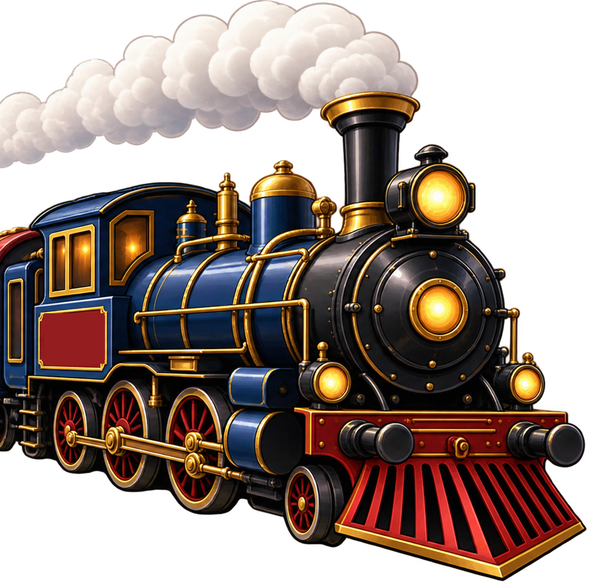
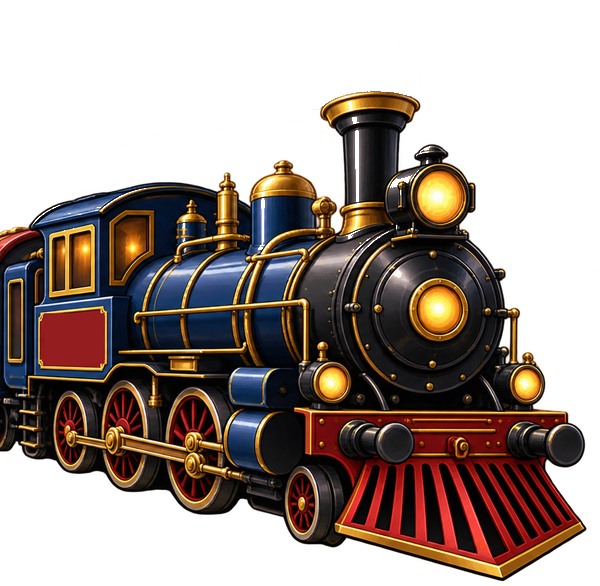
mobile: the steam leaves the stack, and it is grey because white was invisible
Four things the owner asked for after seeing the first pass, and one of them
explains the other three.

THE BAKED SMOKE IS OFF THE LOCOMOTIVE. assets/journey/train-loco.png carried a
painted plume up and to the left of the stack, so an animated plume on top of
it was two plumes. Removed by COLOUR inside the upper-left quadrant rather than
by a box: any bright, desaturated pixel there is smoke, while the boiler, the
lamp, the cowcatcher and the gold trim are all either saturated or very dark,
so none of them can be caught. 39,642 pixels cleared and the engine is
untouched.

WHITE STEAM ON CREAM PAPER IS INVISIBLE, and that, not the opacity, is why the
first two attempts looked thin. The plume crosses the pass's cream stock and
then the frame's white header; white on those has almost no contrast. The
colour now is rgb(219,208,204), which is the MEAN of the smoke the artwork
itself had painted on this very locomotive, sampled off the asset before it was
erased, with the shadow taken from its own shading. The original illustrator
drew grey because that is what steam looks like against a light ground.

ONE ORIGIN, AT THE TIP. Every puff now starts centred on the same point and
only drift moves it sideways as it climbs, so the plume opens out of the
chimney instead of reading as six columns. The canvas foot was 22 points BELOW
the stack, which is the "coming from under the train" the owner saw; the stack
[…]

diff --git a/artifacts/bolo-mobile/components/journey/TrainSteam.tsx b/artifacts/bolo-mobile/components/journey/TrainSteam.tsx
@@ -37,12 +37,43 @@ import { useLoopProgress } from '@/lib/useLoopProgress';
  * trick: a single animated cloud is what makes steam read as fake.
  */
 const PUFFS = [
-  { cycle: 5200, drift: 12, phase: 0.0, size: 26, left: 0 },
-  { cycle: 5900, drift: -19, phase: 0.17, size: 30, left: -6 },
-  { cycle: 5500, drift: 24, phase: 0.35, size: 24, left: 5 },
-  { cycle: 6300, drift: -13, phase: 0.52, size: 32, left: -3 },
-  { cycle: 5700, drift: 18, phase: 0.68, size: 28, left: 7 },
-  { cycle: 6100, drift: -22, phase: 0.84, size: 34, left: -8 },
+  { cycle: 5200, drift: 10, phase: 0.0, size: 22 },
+  { cycle: 5900, drift: -16, phase: 0.17, size: 26 },
+  { cycle: 5500, drift: 20, phase: 0.35, size: 20 },
+  { cycle: 6300, drift: -11, phase: 0.52, size: 28 },
+  { cycle: 5700, drift: 15, phase: 0.68, size: 24 },
+  { cycle: 6100, drift: -19, phase: 0.84, size: 30 },
+] as const;
+
+/**
+ * ONE ORIGIN, WHICH IS THE POINT (owner, 2026-09-05: "single point from smoke
+ * stack"). Every puff starts centred on the same spot and only DRIFT moves it
+ * sideways as it climbs, so the plume opens out of the chimney instead of
+ * appearing as six separate columns. The first pass gave each puff its own
+ * starting offset and it read as a row of clouds.
+ */
+const ORIGIN_LEFT = '50%';
+
+/**
+ * The discs inside one puff, as fractions of its size. SEVEN, NOT THREE, and
+ * heavily overlapped: three hard circles read as bubbles, which is exactly
+ * what the owner saw. Overlapping seven at low individual opacity with a wide
+ * white shadow on each lets the edges dissolve into one another, which is the
+ * only way to get a soft irregular mass out of Views.
+ *
+ * IT CANNOT BE AN SVG. A react-native-svg overlay eats every touch beneath it
+ * even with pointerEvents none, and this layer sits directly over the pass's
+ * own Pressable; an Svg here would swallow taps meant for the boarding pass.
+ * That is a standing rule in CLAUDE.md, paid for by the stop cards.
+ */
+const DISCS = [
+  { dx: 0.0, dy: 0.0, r: 1.0 },
+  { dx: -0.34, dy: 0.16, r: 0.74 },
+  { dx: 0.36, dy: 0.2, r: 0.68 },
+  { dx: -0.16, dy: -0.28, r: 0.62 },
+  { dx: 0.22, dy: -0.24, r: 0.58 },
+  { dx: -0.44, dy: -0.06, r: 0.46 },
+  { dx: 0.48, dy: -0.02, r: 0.44 },
 ] as const;
 
 export function TrainSteam({
@@ -71,7 +102,6 @@ function Puff({
   drift,
   phase,
   size,
-  left,
   rise,
   enabled,
 }: {
@@ -79,7 +109,6 @@ function Puff({
   drift: number;
   phase: number;
   size: number;
-  left: number;
   rise: number;
   enabled: boolean;
 }) {
@@ -94,57 +123,68 @@ function Puff({
     // back sends the steam into the composition instead.
     const lean = -18 * p;
     return {
+      // THICK AT THE STACK, GONE AT THE BAND (owner, 2026-09-05: "thicker to
+      // start", "hit the blue stats bar"). It leaves the chimney at nearly
+      // full strength over a very short ramp, holds, and only lets go in the
+      // last fifth, which is where the stats card is already covering it.
       opacity:
-        p < 0.1 ? (p / 0.1) * 0.6 : p > 0.62 ? Math.max(0, (1 - (p - 0.62) / 0.38) * 0.6) : 0.6,
+        p < 0.04
+          ? (p / 0.04) * 0.95
+          : p > 0.8
+            ? Math.max(0, (1 - (p - 0.8) / 0.2) * 0.95)
+            : 0.95 - (p - 0.04) * 0.22,
       transform: [
         { translateY: -rise * p },
         { translateX: lean + Math.sin(p * Math.PI * 2) * drift },
-        { scale: 0.35 + p * 1.35 },
+        // Small and dense at the stack, wide and thin by the band.
+        { scale: 0.28 + p * 1.75 },
       ],
     };
   });
   return (
-    <Animated.View style={[styles.puff, { left, width: size, height: size }, anim]}>
-      {/* THREE DISCS, NOT ONE. A single circle reads as a bubble; three
-          overlapping at slight offsets give the lumpy edge steam actually has,
-          and they cost nothing next to a blur or an image. */}
-      <View style={[styles.disc, { width: size, height: size, borderRadius: size / 2 }]} />
-      <View
-        style={[
-          styles.disc,
-          {
-            width: size * 0.72,
-            height: size * 0.72,
-            borderRadius: size * 0.36,
-            left: -size * 0.28,
-            top: size * 0.2,
-          },
-        ]}
-      />
-      <View
-        style={[
-          styles.disc,
-          {
-            width: size * 0.64,
-            height: size * 0.64,
-            borderRadius: size * 0.32,
-            left: size * 0.55,
-            top: size * 0.26,
-          },
-        ]}
-      />
+    <Animated.View
+      style={[styles.puff, { marginLeft: -size / 2, width: size, height: size }, anim]}
+    >
+      {DISCS.map((d, k) => (
+        <View
+          key={k}
+          style={[
+            styles.disc,
+            {
+              width: size * d.r,
+              height: size * d.r,
+              borderRadius: (size * d.r) / 2,
+              left: size * (0.5 + d.dx) - (size * d.r) / 2,
+              top: size * (0.5 + d.dy) - (size * d.r) / 2,
+            },
+          ]}
+        />
+      ))}
     </Animated.View>
   );
 }
 
 const styles = StyleSheet.create({
-  puff: { position: 'absolute', bottom: 0 },
+  puff: { position: 'absolute', bottom: 0, left: ORIGIN_LEFT },
+  /**
+   * WARM GREY, NOT WHITE, and this is why the first two attempts looked thin.
+   * The plume crosses cream ticket stock and then the frame's white header, so
+   * white steam on it has almost no contrast: it was not too transparent, it
+   * was the wrong colour. rgb(219,208,204) is the MEAN of the smoke the
+   * artwork itself had painted on this locomotive, sampled off the asset
+   * before that smoke was erased, with the shadow taken from its own shading.
+   * Real steam against a light ground reads grey, which is what the original
+   * illustrator drew.
+   *
+   * Low per-disc alpha with a wide soft shadow: seven of these overlapping
+   * read as one mass, where three opaque ones read as bubbles.
+   */
   disc: {
     position: 'absolute',
-    backgroundColor: 'rgba(255, 255, 255, 0.82)',
-    shadowColor: '#FFFFFF',
-    shadowOpacity: 0.55,
-    shadowRadius: 12,
-    shadowOffset: { width: 0, height: 0 },
+    backgroundColor: 'rgba(219, 208, 204, 0.62)',
+    shadowColor: '#8F8481',
+    shadowOpacity: 0.38,
+    shadowRadius: 9,
+    shadowOffset: { width: 0, height: 1 },
   },
 });

diff --git a/artifacts/bolo-mobile/app/(app)/(tabs)/index.tsx b/artifacts/bolo-mobile/app/(app)/(tabs)/index.tsx
@@ -72,7 +72,7 @@ import { TrainSteam } from '@/components/journey/TrainSteam';
 /** How far the plume climbs, in points: from the locomotive's chimney on the
  *  pass up to roughly the middle of the blue stats band, where the stats card
  *  takes over in z-order and the last wisps disappear behind the numbers. */
-const STEAM_RISE = 300;
+const STEAM_RISE = 380;
 import { DailyGiftCard } from '@/components/DailyGiftCard';
 import { ChaiWalletSheet } from '@/components/ChaiWallet';
 import { ChaiGlyph, ChaiStallVignette } from '@/components/ChaiStall';
@@ -1850,9 +1850,13 @@ const styles = StyleSheet.create({
     // sits about 34 points in from the card's right edge and about 300 up from
     // the frame's foot; the first pass at right:58 put the whole plume left of
     // the engine, over the dot rail.
-    right: 16,
-    bottom: 300,
-    width: 110,
+    // MEASURED OFF THE SCREEN, not guessed. The stack tip reads at x 386pt,
+    // y 544pt on a 440pt phone; the plume was starting 22 points BELOW it,
+    // which is the "coming from under the train" the owner saw. bottom is
+    // raised by exactly that.
+    right: 34,
+    bottom: 328,
+    width: 56,
     height: STEAM_RISE,
     zIndex: 20,
   },
